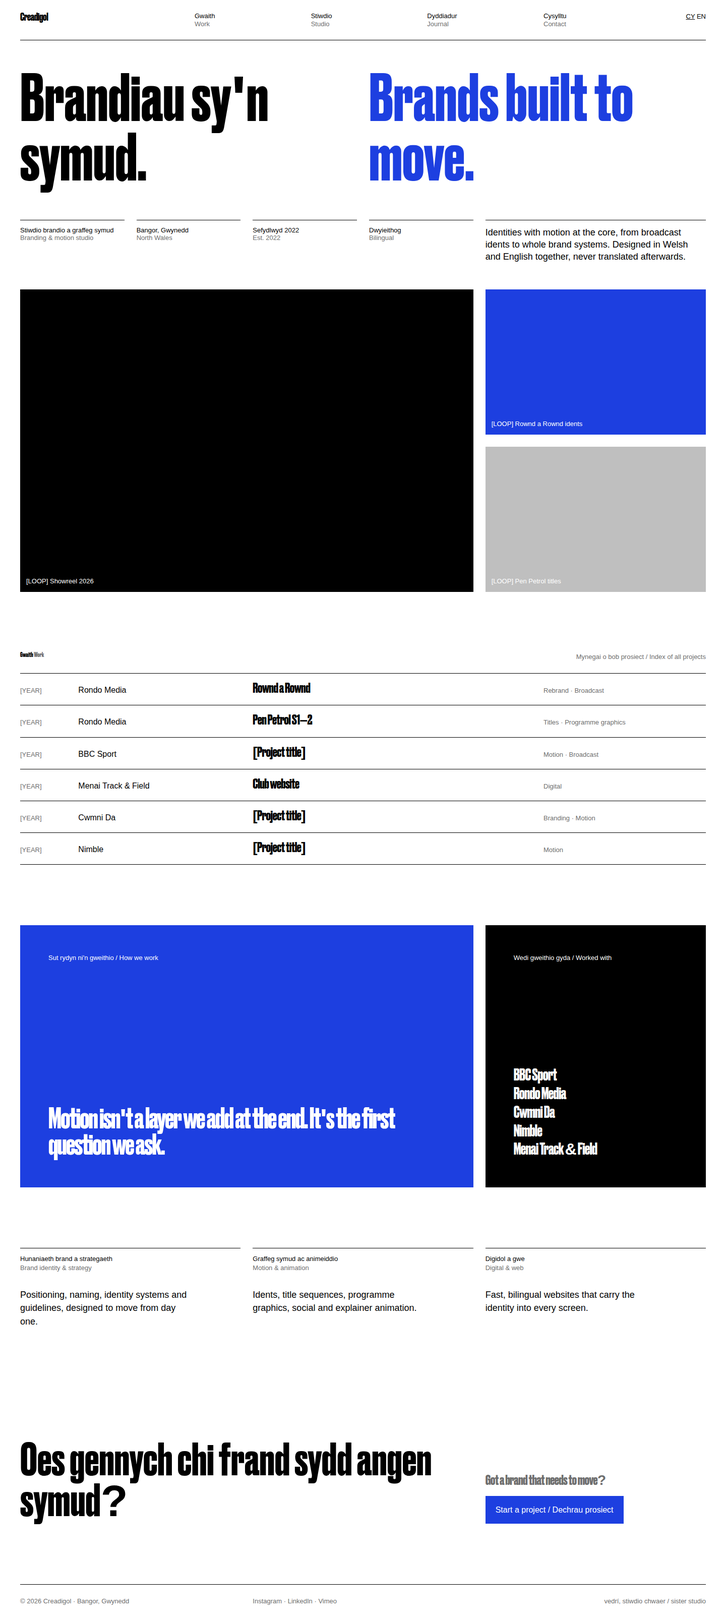
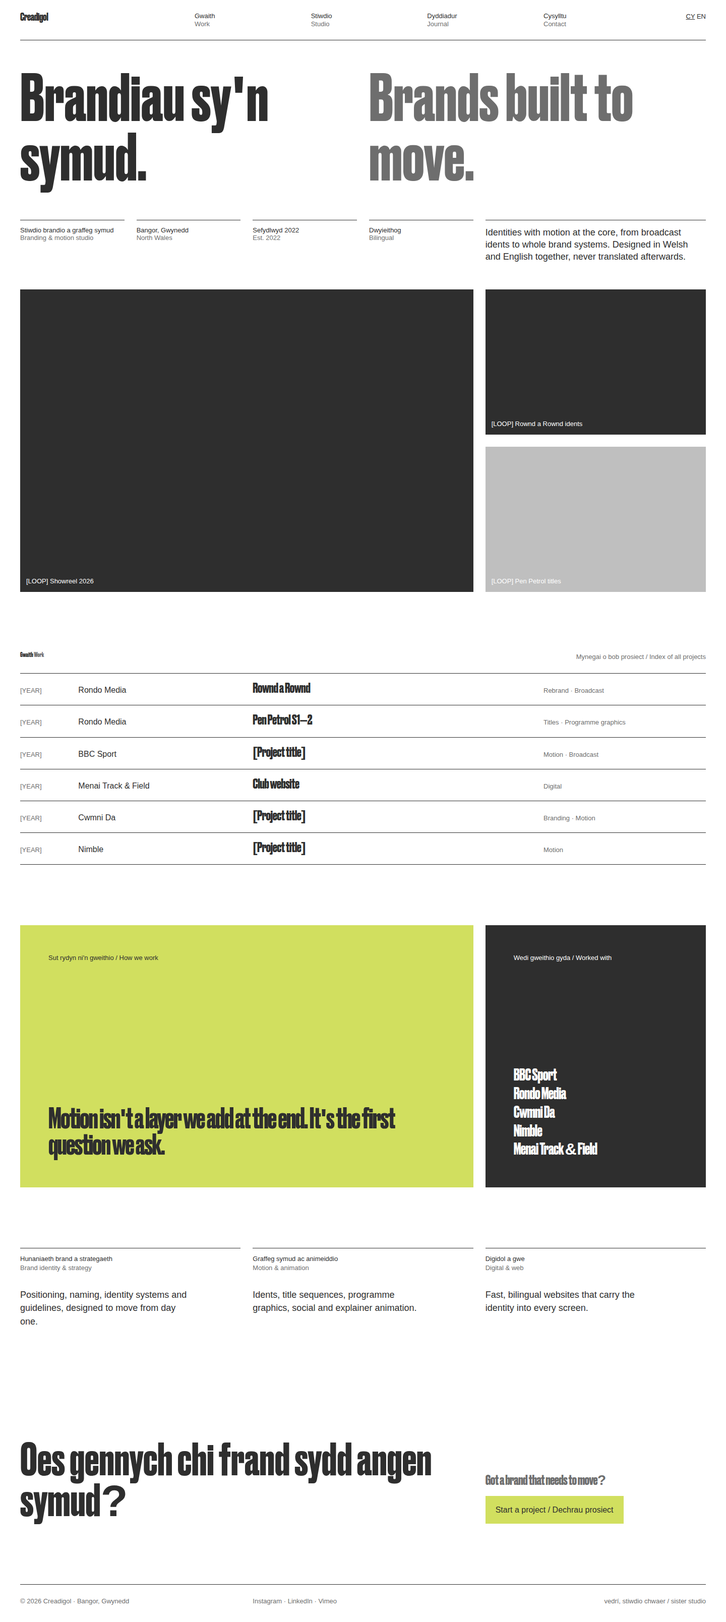
Recolour directions B to E into the brand lime and charcoal
Lime and charcoal are staying, so the five directions now differ in
layout and personality only. Notes, gallery, plan and report updated.

Claude-Session: https://claude.ai/code/session_01K5bPozphXV6LRJE7VzuLkn

diff --git a/design/previews/index.html b/design/previews/index.html
@@ -26,15 +26,15 @@
 </style>
 <header><span class="wm">Creadigol</span><span class="mono">Five home-page directions, then Direction A in full · for approval</span></header>
 <h1>Five directions for the new Creadigol site.</h1>
-<p class="lede">Same content on every page so the comparison is fair. Headlines are set in the studio's own Druk Web Bold and labels in Supply, both taken from the current site. Only A keeps today's lime and charcoal; B to E are colour departures to go with the rename.</p>
+<p class="lede">Same content on every page so the comparison is fair. All five keep the brand's lime and charcoal and set headlines in the studio's own Druk Web Bold with Supply labels, so existing brand material carries over. They differ in layout and personality, not colour.</p>
 <p class="note">Grey blocks are video or image placeholders. Square-bracket text is a fact to fill in. The <a href="https://claude.ai/artifact/UeqE7JxnmPMJXCfFiPQWgi">editable canvas</a> holds the same boards.</p>
-<nav class="jump mono"><a href="#a">A · Evolution</a><a href="#b">B · Broadcast</a><a href="#c">C · Swiss grid, Welsh-first</a><a href="#d">D · Kinetic colour</a><a href="#e">E · Multiview (new)</a><a href="#full">Direction A in full</a></nav>
+<nav class="jump mono"><a href="#a">A · Evolution</a><a href="#b">B · Broadcast</a><a href="#c">C · Swiss grid, Welsh-first</a><a href="#d">D · Kinetic</a><a href="#e">E · Multiview (new)</a><a href="#full">Direction A in full</a></nav>
 
-<section id="a" class="dir"><div class="meta"><span class="mono">Direction A</span><h2>Evolution</h2><p>Today's lime and charcoal kept, Druk headlines and Supply labels, a quieter off-white shell and a video-led work grid. Bilingual eyebrow labels throughout.</p><p class="note">The least change of the five. Risk: may read as a refresh rather than a rebrand.</p></div><div class="shot"><img src="Main.png" alt="Direction A home page"></div></section>
-<section id="b" class="dir"><div class="meta"><span class="mono">Direction B</span><h2>Broadcast</h2><p>Dark, full-bleed reel behind an uppercase Druk headline, lower-third captions on the work, an amber client ticker, a REC tally on every loop. The sports-broadcast heritage made literal.</p><p class="note">Strongest personality for a motion studio. Risk: sits close to vedrí's dark identity.</p></div><div class="shot"><img src="DirectionB.png" alt="Direction B home page"></div></section>
-<section id="c" class="dir"><div class="meta"><span class="mono">Direction C</span><h2>Swiss grid, Welsh-first</h2><p>Pure white, a visible twelve-column grid, Welsh and English set side by side at equal weight, cobalt as the single colour. Work is an index, not a grid of tiles.</p><p class="note">The most distinctive positioning statement. Risk: colder, less filmic.</p></div><div class="shot"><img src="DirectionC.png" alt="Direction C home page"></div></section>
-<section id="d" class="dir"><div class="meta"><span class="mono">Direction D</span><h2>Kinetic colour</h2><p>Violet, tangerine and mint blocks, rounded media, a pill navigation. Sections change colour like a sequence of idents.</p><p class="note">Warmest and most approachable. Risk: reads younger than broadcast clients may expect.</p></div><div class="shot"><img src="DirectionD.png" alt="Direction D home page"></div></section>
-<section id="e" class="dir"><div class="meta"><span class="mono">Direction E · brand new</span><h2>Multiview</h2><p>The home page is a broadcast gallery monitor wall: every project is a live feed with a camera tag and tally light, the headline is stamped across the wall like a caption, services are channels, a timecode runs in the header.</p><p class="note">Nothing in the benchmark looks like this, and it only makes sense for a studio with a gallery background. Risk: needs real loops from day one to work.</p></div><div class="shot"><img src="DirectionE.png" alt="Direction E home page"></div></section>
+<section id="a" class="dir"><div class="meta"><span class="mono">Direction A</span><h2>Evolution</h2><p>An off-white shell with lime as the accent, Druk headlines, a video-led work grid and bilingual eyebrow labels throughout.</p><p class="note">The least change of the five. Risk: may read as a refresh rather than a rebrand.</p></div><div class="shot"><img src="Main.png" alt="Direction A home page"></div></section>
+<section id="b" class="dir"><div class="meta"><span class="mono">Direction B</span><h2>Broadcast</h2><p>Charcoal throughout, a full-bleed reel behind an uppercase Druk headline, lower-third captions on the work, a lime client ticker, a REC tally on every loop. The sports-broadcast heritage made literal.</p><p class="note">Strongest personality for a motion studio. Risk: dark and lime sits close to vedrí.</p></div><div class="shot"><img src="DirectionB.png" alt="Direction B home page"></div></section>
+<section id="c" class="dir"><div class="meta"><span class="mono">Direction C</span><h2>Swiss grid, Welsh-first</h2><p>Pure white, a visible twelve-column grid, Welsh and English set side by side at equal weight, lime and charcoal as blocks. Work is an index, not a grid of tiles.</p><p class="note">The most distinctive positioning statement. Risk: colder, less filmic.</p></div><div class="shot"><img src="DirectionC.png" alt="Direction C home page"></div></section>
+<section id="d" class="dir"><div class="meta"><span class="mono">Direction D</span><h2>Kinetic</h2><p>Lime, charcoal and grey blocks with rounded media and a pill navigation. Sections switch between the three like a sequence of idents.</p><p class="note">Warmest and most approachable. Risk: reads younger than broadcast clients may expect.</p></div><div class="shot"><img src="DirectionD.png" alt="Direction D home page"></div></section>
+<section id="e" class="dir"><div class="meta"><span class="mono">Direction E · brand new</span><h2>Multiview</h2><p>The home page is a broadcast gallery monitor wall: every project is a live feed with a camera tag and tally light, the headline is stamped across the wall on a lime caption, services are channels, a timecode runs in the header.</p><p class="note">Nothing in the benchmark looks like this, and it only makes sense for a studio with a gallery background. Risk: needs real loops from day one to work.</p></div><div class="shot"><img src="DirectionE.png" alt="Direction E home page"></div></section>
 
 <section id="full"><span class="mono">Direction A carried through</span><h2>The rest of the site in Direction A</h2><p class="note">Whichever direction is chosen gets this same set of pages.</p>
   <div class="row" style="margin-top:32px">

diff --git a/docs/report/creadigol-site-plan.html b/docs/report/creadigol-site-plan.html
@@ -141,11 +141,11 @@
 
   <h3 style="margin-top:56px">Design direction</h3>
   <div class="grid3">
-    <div class="card"><h3>A · Evolution</h3><p class="note">Today's lime and charcoal kept, Druk headlines and Supply labels, a quieter shell and a video-led work grid. The least change of the five.</p></div>
-    <div class="card"><h3>B · Broadcast</h3><p class="note">Dark, full-bleed reel, lower-thirds, amber ticker. Risk: close to vedrí's dark identity.</p></div>
-    <div class="card"><h3>C · Swiss grid, Welsh-first · D · Kinetic colour · E · Multiview</h3><p class="note">C sets Welsh and English side by side on a visible grid in cobalt; D uses violet, tangerine and mint blocks; E turns the home page into a broadcast monitor wall of live project feeds. All five are in the mockups gallery.</p></div>
+    <div class="card"><h3>A · Evolution</h3><p class="note">Off-white shell, lime as the accent, Druk headlines, Supply labels, a video-led work grid. The least change of the five.</p></div>
+    <div class="card"><h3>B · Broadcast</h3><p class="note">Charcoal, full-bleed reel, lower-thirds, lime ticker, uppercase Druk. Risk: dark and lime sits close to vedrí.</p></div>
+    <div class="card"><h3>C · Swiss grid, Welsh-first · D · Kinetic · E · Multiview</h3><p class="note">C sets Welsh and English side by side on a visible grid with lime and charcoal blocks; D uses lime, charcoal and grey blocks with rounded media; E turns the home page into a broadcast monitor wall of live project feeds. All five are in the mockups gallery.</p></div>
   </div>
-  <p class="note" style="margin-top:16px">All five set headlines in the studio's own Druk Web Bold and labels in Supply. Only A keeps today's colours; the others are colour departures for the rename. <a href="https://claude.ai/artifact/HgqRYtzQHE97gEtNncTEJa">See all five as a scrolling gallery.</a></p>
+  <p class="note" style="margin-top:16px">Decided: lime and charcoal stay, so existing brand material carries over. All five use them and set headlines in the studio's own Druk Web Bold with Supply labels; they differ in layout and personality, not colour. <a href="https://claude.ai/artifact/HgqRYtzQHE97gEtNncTEJa">See all five as a scrolling gallery.</a></p>
 
   <h3 style="margin-top:56px">Rebrand and migration</h3>
   <ul class="note">
@@ -167,10 +167,10 @@
   <div class="eyebrow mono"><span>Rhan 4</span><span>Decisions needed</span></div>
   <h2>Five things to confirm before the build starts.</h2>
   <ol>
-    <li>Direction: A (evolve today's lime and charcoal) or B, C, D or E (a colour departure with the rename).</li>
+    <li>Direction: A, B, C, D or E, or a mix.</li>
     <li>Stack: Astro + Keystatic + Cloudflare Pages, or a preference for Webflow or Framer.</li>
     <li>Domain: stay on creadigol.design or move.</li>
-    <li>Brand assets: keep the lime #D1DF5F and the "design" script lockup, or retire them with the name?</li>
+    <li>Lockup: the lime "design" script goes with the name; the Druk "CREADIGOL" wordmark stays. Confirm.</li>
     <li>Launch content: which ten projects, and which have video.</li>
   </ol>
   <p><a class="cta" href="https://claude.ai/artifact/UeqE7JxnmPMJXCfFiPQWgi">Review the mockups</a></p>

diff --git a/design/mockups/directions.py b/design/mockups/directions.py
@@ -34,7 +34,7 @@ PROJECTS = [
 
 # ============================================================ B · BROADCAST
 def direction_b():
-    BG, FG, AMBER, GREY, PANEL = "#0B0C0E", "#F5F5F0", "#FFB000", "#7C8087", "#15171B"
+    BG, FG, AMBER, GREY, PANEL = "#2E2E2E", "#F5F5F0", "#D1DF5F", "#9A9A9A", "#383838"
     css = f"""
     body {{ margin: 0; background: {BG}; color: {FG}; font-family: Barlow, 'Helvetica Neue', Arial, sans-serif; font-size: 17px; line-height: 1.5; -webkit-font-smoothing: antialiased; }}
     a {{ color: inherit; text-decoration: none; }} a:hover {{ color: {AMBER}; }}
@@ -49,7 +49,7 @@ def direction_b():
   <span class="label" style="position: absolute; top: 20px; right: 24px; color: {AMBER}; display: flex; gap: 8px; align-items: center;"><span style="width: 8px; height: 8px; background: {AMBER}; border-radius: 50%;"></span>REC</span>
   {PLAY(FG) if play else ""}{lt}</div>"""
     ticker = "".join(f'<span>{c}</span><span style="color: {AMBER};">//</span>' for c in ["BBC Sport", "Rondo Media", "Cwmni Da", "Nimble", "Menai Track &amp; Field", "S4C", "BBC Sport", "Rondo Media", "Cwmni Da", "Nimble"])
-    rows = "".join(f"""<a href="#" style="display: grid; grid-template-columns: 120px 2fr 3fr 2fr 40px; gap: 24px; align-items: center; padding: 22px 0; border-top: 1px solid #23262B;">
+    rows = "".join(f"""<a href="#" style="display: grid; grid-template-columns: 120px 2fr 3fr 2fr 40px; gap: 24px; align-items: center; padding: 22px 0; border-top: 1px solid #454545;">
       <span class="label" style="color: {GREY};">[YEAR]</span><span class="label" style="color: {GREY};">{c}</span><span class="cond" style="font-size: 36px;">{t}</span><span class="label" style="color: {GREY};">{tags}</span><span style="color: {AMBER};">{ARROW}</span></a>"""
         for c, t, tags, _ in [("BBC Sport", "[Project title]", "Motion · Broadcast", ""), ("Menai Track &amp; Field", "Club website", "Digital", ""), ("Cwmni Da", "[Project title]", "Branding · Motion", ""), ("Nimble", "[Project title]", "Motion", "")])
     services = "".join(f'<div style="display: flex; flex-direction: column; gap: 14px; border-top: 2px solid {FG}; padding-top: 20px;"><h3 class="cond" style="font-size: 44px;">{t}</h3><p style="margin: 0; color: {GREY}; font-size: 17px;">{d}</p></div>' for t, d in [
@@ -57,7 +57,7 @@ def direction_b():
         ("Motion<br>&amp; animation", "Idents, title sequences, programme graphics, social and explainer animation."),
         ("Digital<br>&amp; web", "Fast, bilingual websites that carry the identity into every screen.")])
     return shell("https://fonts.googleapis.com/css2?family=Anton&amp;family=Barlow+Condensed:wght@600&amp;family=Barlow:wght@400;500&amp;display=swap", css) + f"""
-<header style="display: flex; align-items: center; justify-content: space-between; padding: 24px 40px; border-bottom: 1px solid #23262B;">
+<header style="display: flex; align-items: center; justify-content: space-between; padding: 24px 40px; border-bottom: 1px solid #454545;">
   <a href="#" class="cond" style="font-size: 30px; display: flex; align-items: center; gap: 12px;"><span style="width: 14px; height: 14px; background: {AMBER};"></span>Creadigol</a>
   <nav class="label" style="display: flex; gap: 36px;"><a href="#">Gwaith / Work</a><a href="#">Stiwdio / Studio</a><a href="#">Dyddiadur / Journal</a><a href="#">Cysylltu / Contact</a></nav>
   <div class="label" style="display: flex; gap: 20px; align-items: center;"><span><span style="color: {FG};">EN</span> <span style="color: {GREY};">/ CY</span></span><a href="#" style="padding: 12px 18px; background: {AMBER}; color: {BG};">Start a project</a></div>
@@ -77,9 +77,9 @@ def direction_b():
 <div class="cond" style="display: flex; gap: 28px; padding: 16px 40px; font-size: 22px; background: {AMBER}; color: {BG}; white-space: nowrap; overflow: hidden;">{ticker}</div>
 <section style="padding: 96px 40px 0; display: flex; flex-direction: column; gap: 40px;">
   <div style="display: flex; justify-content: space-between; align-items: end;"><h2 class="cond" style="font-size: 96px;">Gwaith <span style="color: {GREY};">/</span> Work</h2><a href="#" class="label" style="color: {AMBER};">All projects</a></div>
-  <a href="#">{media(640, "#1E2329", PROJECTS[0][3], lower_third=(PROJECTS[0][0] + " · Rebrand · Broadcast", PROJECTS[0][1]))}</a>
-  <a href="#">{media(640, "#2A2F36", PROJECTS[1][3], lower_third=(PROJECTS[1][0] + " · Titles · Programme graphics", PROJECTS[1][1]))}</a>
-  <div style="display: flex; flex-direction: column; border-bottom: 1px solid #23262B;">{rows}</div>
+  <a href="#">{media(640, "#3A3A3A", PROJECTS[0][3], lower_third=(PROJECTS[0][0] + " · Rebrand · Broadcast", PROJECTS[0][1]))}</a>
+  <a href="#">{media(640, "#444444", PROJECTS[1][3], lower_third=(PROJECTS[1][0] + " · Titles · Programme graphics", PROJECTS[1][1]))}</a>
+  <div style="display: flex; flex-direction: column; border-bottom: 1px solid #454545;">{rows}</div>
 </section>
 <section style="margin-top: 120px; padding: 96px 40px; background: {AMBER}; color: {BG};">
   <span class="label">Sut rydyn ni'n gweithio / How we work</span>
@@ -91,12 +91,12 @@ def direction_b():
   <h2 class="cond" style="font-size: 136px; white-space: nowrap;">Got a brand that<br>needs to move?</h2>
   <div class="label" style="display: flex; gap: 16px; align-items: center;"><a href="#" style="padding: 18px 28px; background: {AMBER}; color: {BG};">Start a project</a><a href="#" style="padding: 18px 8px; font-size: 16px;">[EMAIL]</a></div>
 </section>
-<footer class="label" style="display: flex; justify-content: space-between; padding: 24px 40px; border-top: 1px solid #23262B; color: {GREY};"><span>© 2026 Creadigol · Bangor, Gwynedd</span><span>Instagram · LinkedIn · Vimeo · vedrí (sister studio) · Cymraeg</span></footer>
+<footer class="label" style="display: flex; justify-content: space-between; padding: 24px 40px; border-top: 1px solid #454545; color: {GREY};"><span>© 2026 Creadigol · Bangor, Gwynedd</span><span>Instagram · LinkedIn · Vimeo · vedrí (sister studio) · Cymraeg</span></footer>
 """ + FOOT
 
 # ============================================================ C · SWISS GRID, WELSH-FIRST
 def direction_c():
-    BG, FG, BLUE, GRID, GREY = "#FFFFFF", "#000000", "#1D3FE0", "#E4E4E4", "#6E6E6E"
+    BG, FG, BLUE, GRID, GREY = "#FFFFFF", "#2E2E2E", "#D1DF5F", "#E4E4E4", "#6E6E6E"
     css = f"""
     body {{ margin: 0; background: {BG}; color: {FG}; font-family: 'Schibsted Grotesk', Helvetica, Arial, sans-serif; font-size: 16px; line-height: 1.45; -webkit-font-smoothing: antialiased; }}
     a {{ color: inherit; text-decoration: none; }} a:hover {{ color: {BLUE}; }}
@@ -124,7 +124,7 @@ def direction_c():
 </header>
 <section style="display: grid; grid-template-columns: repeat(12, minmax(0, 1fr)); gap: 24px; padding: 64px 0 0;">
   <h1 class="h" style="grid-column: span 6; font-size: 128px;">Brandiau sy'n symud.</h1>
-  <h1 class="h" style="grid-column: span 6; font-size: 128px; color: {BLUE};">Brands built to move.</h1>
+  <h1 class="h" style="grid-column: span 6; font-size: 128px; color: {GREY};">Brands built to move.</h1>
 </section>
 <section style="display: grid; grid-template-columns: repeat(12, minmax(0, 1fr)); gap: 24px; padding: 56px 0 0;" class="sm">
   <div class="cell" style="grid-column: span 2;">{bil("Stiwdio brandio a graffeg symud", "Branding &amp; motion studio")}</div>
@@ -135,14 +135,14 @@ def direction_c():
 </section>
 <section style="display: grid; grid-template-columns: repeat(12, minmax(0, 1fr)); gap: 24px; padding: 40px 0 0;">
   <div style="grid-column: span 8;">{media(600, FG, "Showreel 2026")}</div>
-  <div style="grid-column: span 4; display: grid; grid-template-rows: repeat(2, minmax(0, 1fr)); gap: 24px;">{media(288, BLUE, "Rownd a Rownd idents")}{media(288, "#BFBFBF", "Pen Petrol titles")}</div>
+  <div style="grid-column: span 4; display: grid; grid-template-rows: repeat(2, minmax(0, 1fr)); gap: 24px;">{media(288, "#2E2E2E", "Rownd a Rownd idents")}{media(288, "#BFBFBF", "Pen Petrol titles")}</div>
 </section>
 <section style="padding: 120px 0 0;">
   <div style="display: grid; grid-template-columns: repeat(12, minmax(0, 1fr)); gap: 24px; padding-bottom: 24px;" class="sm"><span style="grid-column: span 6;" class="h" >Gwaith <span style="color: {GREY};">Work</span></span><span style="grid-column: span 6; text-align: right; color: {GREY};">Mynegai o bob prosiect / Index of all projects</span></div>
   <div style="display: flex; flex-direction: column; border-bottom: 1px solid {FG};">{index_rows}</div>
 </section>
 <section style="display: grid; grid-template-columns: repeat(12, minmax(0, 1fr)); gap: 24px; padding: 120px 0 0;">
-  <div style="grid-column: span 8; background: {BLUE}; color: #fff; padding: 56px; box-sizing: border-box; display: flex; flex-direction: column; gap: 40px; min-height: 520px; justify-content: space-between;">
+  <div style="grid-column: span 8; background: {BLUE}; color: {FG}; padding: 56px; box-sizing: border-box; display: flex; flex-direction: column; gap: 40px; min-height: 520px; justify-content: space-between;">
     <span class="sm">Sut rydyn ni'n gweithio / How we work</span>
     <p class="h" style="font-size: 56px; letter-spacing: -0.03em;">Motion isn't a layer we add at the end. It's the first question we ask.</p>
   </div>
@@ -154,7 +154,7 @@ def direction_c():
 <section style="display: grid; grid-template-columns: repeat(12, minmax(0, 1fr)); gap: 24px; padding: 120px 0 0;">{services}</section>
 <section style="display: grid; grid-template-columns: repeat(12, minmax(0, 1fr)); gap: 24px; padding: 140px 0 120px; align-items: end;">
   <h2 class="h" style="grid-column: span 8; font-size: 88px;">Oes gennych chi frand sydd angen symud?</h2>
-  <div style="grid-column: span 4; display: flex; flex-direction: column; gap: 16px;"><p class="h" style="font-size: 28px; letter-spacing: -0.02em; color: {GREY};">Got a brand that needs to move?</p><a href="#" style="padding: 16px 20px; background: {BLUE}; color: #fff; align-self: flex-start; font-weight: 500;">Start a project / Dechrau prosiect</a></div>
+  <div style="grid-column: span 4; display: flex; flex-direction: column; gap: 16px;"><p class="h" style="font-size: 28px; letter-spacing: -0.02em; color: {GREY};">Got a brand that needs to move?</p><a href="#" style="padding: 16px 20px; background: {BLUE}; color: {FG}; align-self: flex-start; font-weight: 500;">Start a project / Dechrau prosiect</a></div>
 </section>
 <footer class="sm" style="display: grid; grid-template-columns: repeat(12, minmax(0, 1fr)); gap: 24px; padding: 24px 0 32px; border-top: 1px solid {FG}; color: {GREY};"><span style="grid-column: span 4;">© 2026 Creadigol · Bangor, Gwynedd</span><span style="grid-column: span 4;">Instagram · LinkedIn · Vimeo</span><span style="grid-column: span 4; text-align: right;">vedrí, stiwdio chwaer / sister studio</span></footer>
 </div>
@@ -162,33 +162,34 @@ def direction_c():
 
 # ============================================================ D · KINETIC COLOUR
 def direction_d():
-    VIOLET, CREAM, TANG, INK, MINT = "#4B2FE8", "#FFF4E6", "#FF7A2F", "#141223", "#BFF5D2"
+    VIOLET, CREAM, TANG, INK, MINT = "#D1DF5F", "#F4F5F2", "#2E2E2E", "#2E2E2E", "#DADADA"
     css = f"""
     body {{ margin: 0; background: {CREAM}; color: {INK}; font-family: 'Bricolage Grotesque', 'Helvetica Neue', Arial, sans-serif; font-size: 17px; line-height: 1.5; -webkit-font-smoothing: antialiased; }}
     a {{ color: inherit; text-decoration: none; }} a:hover {{ opacity: 0.8; }}
     .d {{ font-family: 'Druk Web', Impact, 'Arial Narrow', sans-serif; font-weight: 700; letter-spacing: 0; line-height: 0.9; margin: 0; }}
     .pill {{ display: inline-flex; align-items: center; padding: 10px 16px; border-radius: 999px; font-weight: 600; font-size: 14px; }}
+    .d.cream {{ color: #F4F5F2; }}
     """
     def media(h, tone, label, fg="#fff", play=False):
         return f'<div style="position: relative; height: {h}px; background: {tone}; border-radius: 28px; display: flex; align-items: center; justify-content: center; color: {fg}; overflow: hidden;"><span style="position: absolute; top: 18px; left: 20px; font-size: 13px; font-weight: 600; opacity: 0.85;">[LOOP] {label}</span>{PLAY(fg) if play else ""}</div>'
     def tile(tone, client, title, tags, label, h=520, fg="#fff"):
         return f'<a href="#" style="display: flex; flex-direction: column; gap: 16px;">{media(h, tone, label, fg)}<div style="display: flex; justify-content: space-between; align-items: center; gap: 16px;"><span class="d" style="font-size: 30px; letter-spacing: -0.03em;">{title}</span><span class="pill" style="background: {INK}; color: {CREAM};">{client}</span></div><span style="color: #6B6580; font-size: 15px; margin-top: -8px;">{tags}</span></a>'
     services = "".join(f'<div style="background: {bg}; color: {fg}; border-radius: 28px; padding: 36px; display: flex; flex-direction: column; justify-content: space-between; min-height: 300px;"><h3 class="d" style="font-size: 40px;">{t}</h3><p style="margin: 0; font-size: 17px; opacity: 0.9;">{d}</p></div>' for bg, fg, t, d in [
-        (INK, CREAM, "Brand identity &amp; strategy", "Positioning, naming, identity systems and guidelines, designed to move from day one."),
-        (MINT, INK, "Motion &amp; animation", "Idents, title sequences, programme graphics, social and explainer animation."),
-        ("#FFD9C2", INK, "Digital &amp; web", "Fast, bilingual websites that carry the identity into every screen.")])
+        (INK, "#F4F5F2", "Brand identity &amp; strategy", "Positioning, naming, identity systems and guidelines, designed to move from day one."),
+        (VIOLET, INK, "Motion &amp; animation", "Idents, title sequences, programme graphics, social and explainer animation."),
+        (MINT, INK, "Digital &amp; web", "Fast, bilingual websites that carry the identity into every screen.")])
     return shell("https://fonts.googleapis.com/css2?family=Archivo:wdth,wght@125,800&amp;family=Bricolage+Grotesque:opsz,wght@12..96,400;12..96,600&amp;display=swap", css) + f"""
-<section style="background: {VIOLET}; color: {CREAM}; padding: 24px 40px 48px; border-radius: 0 0 40px 40px; display: flex; flex-direction: column; gap: 72px;">
+<section style="background: {VIOLET}; color: {INK}; padding: 24px 40px 48px; border-radius: 0 0 40px 40px; display: flex; flex-direction: column; gap: 72px;">
   <header style="display: flex; align-items: center; justify-content: space-between;">
     <a href="#" class="d" style="font-size: 30px; letter-spacing: -0.04em;">creadigol</a>
-    <nav style="display: flex; gap: 6px; background: rgba(255,244,230,0.12); padding: 6px; border-radius: 999px;"><a href="#" class="pill" style="background: {CREAM}; color: {VIOLET};">Work</a><a href="#" class="pill">Studio</a><a href="#" class="pill">Journal</a><a href="#" class="pill">Contact</a></nav>
-    <div style="display: flex; gap: 8px; align-items: center;"><span class="pill" style="border: 1px solid rgba(255,244,230,0.5);">Cymraeg</span><a href="#" class="pill" style="background: {TANG}; color: {INK};">Start a project</a></div>
+    <nav style="display: flex; gap: 6px; background: rgba(46,46,46,0.08); padding: 6px; border-radius: 999px;"><a href="#" class="pill" style="background: {INK}; color: {VIOLET};">Work</a><a href="#" class="pill">Studio</a><a href="#" class="pill">Journal</a><a href="#" class="pill">Contact</a></nav>
+    <div style="display: flex; gap: 8px; align-items: center;"><span class="pill" style="border: 1px solid rgba(46,46,46,0.4);">Cymraeg</span><a href="#" class="pill" style="background: {INK}; color: {VIOLET};">Start a project</a></div>
   </header>
   <div style="display: grid; grid-template-columns: 7fr 5fr; gap: 48px; align-items: end;">
-    <h1 class="d" style="font-size: 190px;">Brands<br>built to<br><span style="color: {TANG};">move.</span></h1>
+    <h1 class="d" style="font-size: 190px;">Brands<br>built to<br><span style="color: {CREAM};">move.</span></h1>
     <div style="display: flex; flex-direction: column; gap: 28px; padding-bottom: 20px;">
       <p style="margin: 0; font-size: 24px; line-height: 1.35; max-width: 22ch;">A branding and motion studio from North Wales. Bilingual, playful, built for screens that never stand still.</p>
-      <div style="display: flex; gap: 8px; flex-wrap: wrap;"><span class="pill" style="background: rgba(255,244,230,0.14);">Branding</span><span class="pill" style="background: rgba(255,244,230,0.14);">Motion</span><span class="pill" style="background: rgba(255,244,230,0.14);">Broadcast</span><span class="pill" style="background: rgba(255,244,230,0.14);">Digital</span></div>
+      <div style="display: flex; gap: 8px; flex-wrap: wrap;"><span class="pill" style="background: rgba(46,46,46,0.1);">Branding</span><span class="pill" style="background: rgba(46,46,46,0.1);">Motion</span><span class="pill" style="background: rgba(46,46,46,0.1);">Broadcast</span><span class="pill" style="background: rgba(46,46,46,0.1);">Digital</span></div>
     </div>
   </div>
   {media(640, INK, "Showreel 2026", play=True)}
@@ -196,14 +197,14 @@ def direction_d():
 <section style="padding: 120px 40px 0; display: flex; flex-direction: column; gap: 40px;">
   <div style="display: flex; justify-content: space-between; align-items: end;"><h2 class="d" style="font-size: 80px;">Recent work</h2><a href="#" class="pill" style="border: 1.5px solid {INK};">All projects {ARROW}</a></div>
   <div style="display: grid; grid-template-columns: repeat(2, minmax(0, 1fr)); gap: 40px;">
-    {tile(VIOLET, "Rondo Media", "Rownd a Rownd", "Rebrand · Broadcast", "Rownd a Rownd idents")}
-    {tile(TANG, "Rondo Media", "Pen Petrol S1–2", "Titles · Programme graphics", "Pen Petrol titles", fg=INK)}
+    {tile(INK, "Rondo Media", "Rownd a Rownd", "Rebrand · Broadcast", "Rownd a Rownd idents")}
+    {tile(VIOLET, "Rondo Media", "Pen Petrol S1–2", "Titles · Programme graphics", "Pen Petrol titles", fg=INK)}
     {tile(MINT, "BBC Sport", "[Project title]", "Motion · Broadcast", "BBC Sport project", h=420, fg=INK)}
-    {tile(INK, "Menai Track &amp; Field", "Club website", "Digital · Identity refresh", "Menai T&amp;F site", h=420)}
+    {tile("#5B6B7A", "Menai Track &amp; Field", "Club website", "Digital · Identity refresh", "Menai T&amp;F site", h=420)}
   </div>
 </section>
-<section style="margin: 140px 40px 0; background: {TANG}; color: {INK}; border-radius: 40px; padding: 80px 64px; display: flex; flex-direction: column; gap: 32px;">
-  <span class="pill" style="background: {INK}; color: {CREAM}; align-self: flex-start;">How we work</span>
+<section style="margin: 140px 40px 0; background: {TANG}; color: {CREAM}; border-radius: 40px; padding: 80px 64px; display: flex; flex-direction: column; gap: 32px;">
+  <span class="pill" style="background: {VIOLET}; color: {INK}; align-self: flex-start;">How we work</span>
   <p class="d" style="font-size: 80px; max-width: 1200px;">Motion isn't a layer we add at the end. It's the first question we ask.</p>
 </section>
 <section style="padding: 120px 40px 0; display: grid; grid-template-columns: repeat(3, minmax(0, 1fr)); gap: 28px;">{services}</section>
@@ -211,9 +212,9 @@ def direction_d():
   <span style="font-weight: 600; color: #6B6580;">Worked with</span>
   <div style="display: flex; flex-wrap: wrap; gap: 12px;">{"".join(f'<span class="pill" style="border: 1.5px solid {INK}; font-size: 20px; padding: 14px 22px;">{c}</span>' for c in ["BBC Sport", "Rondo Media", "Cwmni Da", "Nimble", "Menai Track &amp; Field"])}</div>
 </section>
-<section style="margin: 140px 40px 40px; background: {VIOLET}; color: {CREAM}; border-radius: 40px; padding: 96px 64px; display: flex; flex-direction: column; gap: 40px; align-items: flex-start;">
+<section style="margin: 140px 40px 40px; background: {VIOLET}; color: {INK}; border-radius: 40px; padding: 96px 64px; display: flex; flex-direction: column; gap: 40px; align-items: flex-start;">
   <h2 class="d" style="font-size: 104px;">Got a brand that<br>needs to move?</h2>
-  <div style="display: flex; gap: 12px; align-items: center;"><a href="#" class="pill" style="background: {TANG}; color: {INK}; font-size: 18px; padding: 18px 28px;">Start a project</a><span style="font-size: 20px; font-weight: 600;">[EMAIL]</span></div>
+  <div style="display: flex; gap: 12px; align-items: center;"><a href="#" class="pill" style="background: {INK}; color: {VIOLET}; font-size: 18px; padding: 18px 28px;">Start a project</a><span style="font-size: 20px; font-weight: 600;">[EMAIL]</span></div>
 </section>
 <footer style="display: flex; justify-content: space-between; padding: 24px 40px 40px; font-size: 14px; color: #6B6580;"><span>© 2026 Creadigol · Bangor, Gwynedd</span><span>Instagram · LinkedIn · Vimeo · vedrí (sister studio) · Cymraeg</span></footer>
 """ + FOOT
@@ -221,7 +222,7 @@ def direction_d():
 
 # ============================================================ E · MULTIVIEW (brand new)
 def direction_e():
-    BG, SURF, FG, DIM, TALLY, LINE = "#0F1113", "#1A1D21", "#EDEEF0", "#8B9096", "#FF2D2D", "#2A2E34"
+    BG, SURF, FG, DIM, TALLY, LINE = "#2E2E2E", "#383838", "#F4F5F2", "#9A9A9A", "#D1DF5F", "#4A4A4A"
     css = f"""
     body {{ margin: 0; background: {BG}; color: {FG}; font-family: 'IBM Plex Sans', 'Helvetica Neue', Arial, sans-serif; font-size: 16px; line-height: 1.5; -webkit-font-smoothing: antialiased; }}
     a {{ color: inherit; text-decoration: none; }} a:hover {{ color: #fff; }}
@@ -241,12 +242,12 @@ def direction_e():
       <span class="tc" style="position: absolute; top: 12px; right: 12px;">[LOOP]</span>
       <span class="name"><span class="druk" style="font-size: 22px; text-transform: none; letter-spacing: -0.02em;">{title}</span><span class="tc">{tags}</span></span></a>"""
     feeds = [
-        ("PGM", "Rondo Media", "Rownd a Rownd", "Rebrand · Broadcast", True, "#24282E"),
-        ("CAM 1", "Rondo Media", "Pen Petrol S1–2", "Titles · Graphics", False, "#1E2126"),
-        ("CAM 2", "BBC Sport", "[Project title]", "Motion · Broadcast", False, "#202730"),
-        ("CAM 3", "Menai Track &amp; Field", "Club website", "Digital", False, "#1C2024"),
-        ("CAM 4", "Cwmni Da", "[Project title]", "Branding · Motion", False, "#22252A"),
-        ("CAM 5", "Nimble", "[Project title]", "Motion", False, "#1A1E23"),
+        ("PGM", "Rondo Media", "Rownd a Rownd", "Rebrand · Broadcast", True, "#444444"),
+        ("CAM 1", "Rondo Media", "Pen Petrol S1–2", "Titles · Graphics", False, "#3C3C3C"),
+        ("CAM 2", "BBC Sport", "[Project title]", "Motion · Broadcast", False, "#404040"),
+        ("CAM 3", "Menai Track &amp; Field", "Club website", "Digital", False, "#363636"),
+        ("CAM 4", "Cwmni Da", "[Project title]", "Branding · Motion", False, "#424242"),
+        ("CAM 5", "Nimble", "[Project title]", "Motion", False, "#3A3A3A"),
     ]
     wall = "".join(feed(*f) for f in feeds)
     channels = "".join(f"""<a href="#" style="display: grid; grid-template-columns: 90px 1fr 2fr 40px; gap: 24px; align-items: center; padding: 26px 0; border-top: 1px solid {LINE};">
@@ -263,7 +264,7 @@ def direction_e():
 <section style="position: relative; padding: 4px; display: grid; grid-template-columns: repeat(3, minmax(0, 1fr)); gap: 4px;">
   {wall}
   <div style="position: absolute; left: 0; right: 0; top: 50%; transform: translateY(-50%); display: flex; justify-content: center; pointer-events: none;">
-    <div style="background: {FG}; color: {BG}; padding: 28px 40px 24px; display: flex; flex-direction: column; gap: 10px; box-shadow: 0 30px 80px rgba(0,0,0,0.5);">
+    <div style="background: {TALLY}; color: {BG}; padding: 28px 40px 24px; display: flex; flex-direction: column; gap: 10px; box-shadow: 0 30px 80px rgba(0,0,0,0.5);">
       <span class="tc" style="color: {BG};">Stiwdio brandio a graffeg symud · Branding &amp; motion studio</span>
       <h1 class="druk" style="font-size: 120px;">Brands built<br>to move.</h1>
     </div>
@@ -282,8 +283,8 @@ def direction_e():
   <span class="tc">Sianeli / What we do</span>
   <div style="display: flex; flex-direction: column; border-bottom: 1px solid {LINE};">{channels}</div>
 </section>
-<section style="margin: 120px 4px 4px; background: {TALLY}; color: {FG}; padding: 96px 40px; display: flex; flex-direction: column; gap: 32px;">
-  <span class="tc" style="color: {FG};">Cysylltu / Get in touch</span>
+<section style="margin: 120px 4px 4px; background: {TALLY}; color: {BG}; padding: 96px 40px; display: flex; flex-direction: column; gap: 32px;">
+  <span class="tc" style="color: {BG};">Cysylltu / Get in touch</span>
   <h2 class="druk" style="font-size: 132px;">Got a brand that<br>needs to move?</h2>
   <div style="display: flex; gap: 16px; align-items: center;"><a href="#" style="padding: 18px 28px; background: {FG}; color: {BG}; font-weight: 600;">Start a project</a><span style="font-size: 18px; font-weight: 500;">[EMAIL]</span></div>
 </section>

diff --git a/design/mockups/build.py b/design/mockups/build.py
@@ -528,7 +528,7 @@ canvas = {
   "artboards": [
     {
       "file": "Main.dc.html",
-      "title": "A · Evolution (lime & charcoal)",
+      "title": "A · Evolution",
       "x": 0,
       "y": 0,
       "w": 1440,
@@ -555,7 +555,7 @@ canvas = {
     },
     {
       "file": "DirectionD.dc.html",
-      "title": "D · Kinetic colour",
+      "title": "D · Kinetic",
       "x": 4680,
       "y": 0,
       "w": 1440,
@@ -633,7 +633,7 @@ canvas = {
       "y": -300,
       "w": 900,
       "page": "page-1",
-      "text": "Five directions for the Creadigol home page. Zoom out to see them side by side.\nA · Evolution: today's lime and charcoal kept, quieter shell, video-led work.\nB · Broadcast: dark, full-bleed reel, lower-thirds, amber ticker, Druk Condensed.\nC · Swiss grid, Welsh-first: white, visible 12-column grid, Welsh and English side by side, cobalt.\nD · Kinetic colour: violet, tangerine and mint blocks, rounded media, pill navigation.\nE · Multiview (brand new): the home page is a broadcast monitor wall of live project feeds, headline stamped across as a caption.\n\nHeadlines are set in the real Druk Web Bold and labels in Supply, both taken from the current site.\nGrey blocks are media placeholders. Square-bracket text is a fact to fill in."
+      "text": "Five directions for the Creadigol home page, all in the brand's lime #D1DF5F and charcoal #2E2E2E, all set in Druk Web Bold with Supply labels. They differ in layout and personality, not colour. Zoom out to see them side by side.\nA · Evolution: off-white shell, lime as accent, video-led work grid. Least change.\nB · Broadcast: charcoal, full-bleed reel, lower-thirds, lime client ticker, REC tallies.\nC · Swiss grid, Welsh-first: white, visible 12-column grid, Welsh and English side by side, work as an index.\nD · Kinetic: lime, charcoal and grey blocks, rounded media, pill navigation.\nE · Multiview (brand new): the home page is a broadcast monitor wall of live project feeds, headline stamped across on a lime caption.\n\nGrey blocks are media placeholders. Square-bracket text is a fact to fill in."
     },
     {
       "id": "note-fullset",

diff --git a/docs/03-new-site-plan.md b/docs/03-new-site-plan.md
@@ -72,18 +72,19 @@ Two ways to add a case study, both valid:
 
 ## 5. Design direction (see mockups)
 
-Five home-page directions, same content on each so the comparison is fair. **Druk stays
-as the headline face** and Supply as the label face; the mockups use the studio's own Druk
-Web Bold and Supply webfonts. Body copy drops Poppins for one workhorse sans, cutting the
-font families loaded from six to three.
+Five home-page directions, same content on each so the comparison is fair. **Decided:
+lime #D1DF5F and charcoal #2E2E2E stay, so existing brand material carries over. Druk stays
+as the headline face** and Supply as the label face; the mockups use the studio's own
+webfonts. Body copy drops Poppins for one workhorse sans, cutting the font families loaded
+from six to three. The directions differ in layout and personality, not colour.
 
 | | Direction | In one line | Risk |
 | --- | --- | --- | --- |
-| A | Evolution | Today's lime and charcoal kept, quieter shell, video-led work grid | Least change; may feel like a refresh rather than a rebrand |
-| B | Broadcast | Dark, full-bleed reel, lower-thirds, amber ticker, Druk Condensed | Close to vedrí's dark identity |
-| C | Swiss grid, Welsh-first | White, visible 12-column grid, CY and EN side by side, cobalt | Colder, less filmic |
-| D | Kinetic colour | Violet, tangerine and mint blocks, rounded media, pill nav | Reads younger than broadcast clients may expect |
-| E | Multiview (new) | Home page as a gallery monitor wall of live project feeds, headline stamped across | Needs real loops from day one |
+| A | Evolution | Off-white shell, lime accent, video-led work grid | Least change; may read as a refresh |
+| B | Broadcast | Charcoal, full-bleed reel, lower-thirds, lime ticker, uppercase Druk | Dark and lime sits close to vedrí |
+| C | Swiss grid, Welsh-first | White, visible 12-column grid, CY and EN side by side, work as an index | Colder, less filmic |
+| D | Kinetic | Lime, charcoal and grey blocks, rounded media, pill nav | Reads younger than broadcast clients may expect |
+| E | Multiview (new) | Home page as a gallery monitor wall of live project feeds, lime caption | Needs real loops from day one |
 
 Shared across all five: hover loops on tiles, scroll reveals from a visible resting state,
 page transitions, bilingual eyebrow labels and a CY/EN switch. Direction A is shown carried
@@ -122,5 +123,5 @@ direction gets the same set.
 1. Pick a direction: A, B, C, D or E.
 2. Confirm the stack (Astro + Keystatic + Cloudflare Pages) or prefer Webflow/Framer.
 3. Domain: stay on creadigol.design or move.
-4. Do existing brand assets (logo, colours, type) exist to be applied?
+4. Decided: lime and charcoal stay; Druk stays. Open: does the "design" script in the lockup go with the name?
 5. Which 10 projects launch, and which have video.
